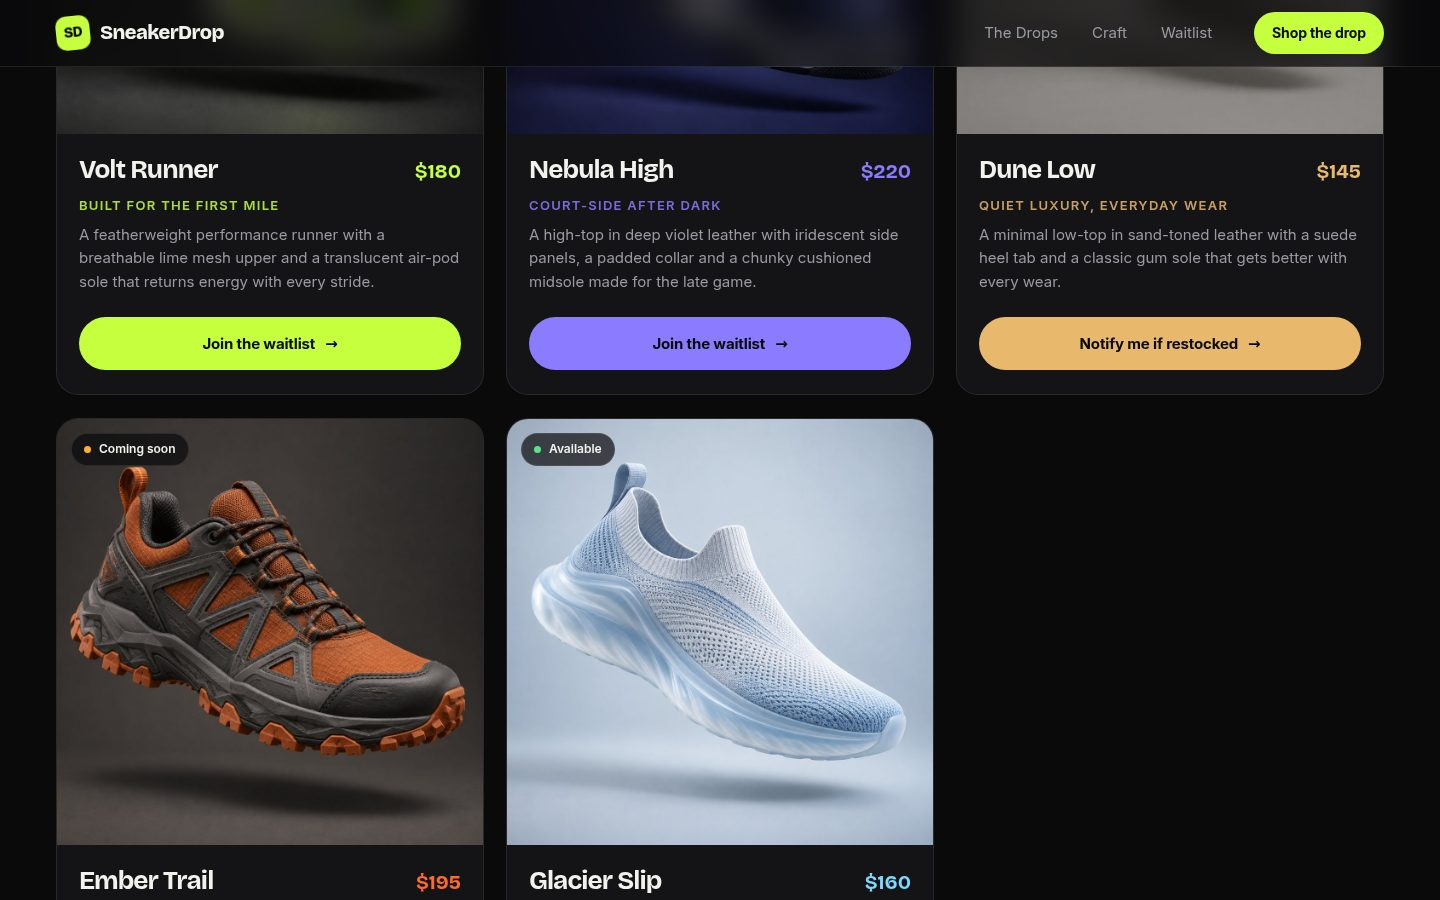
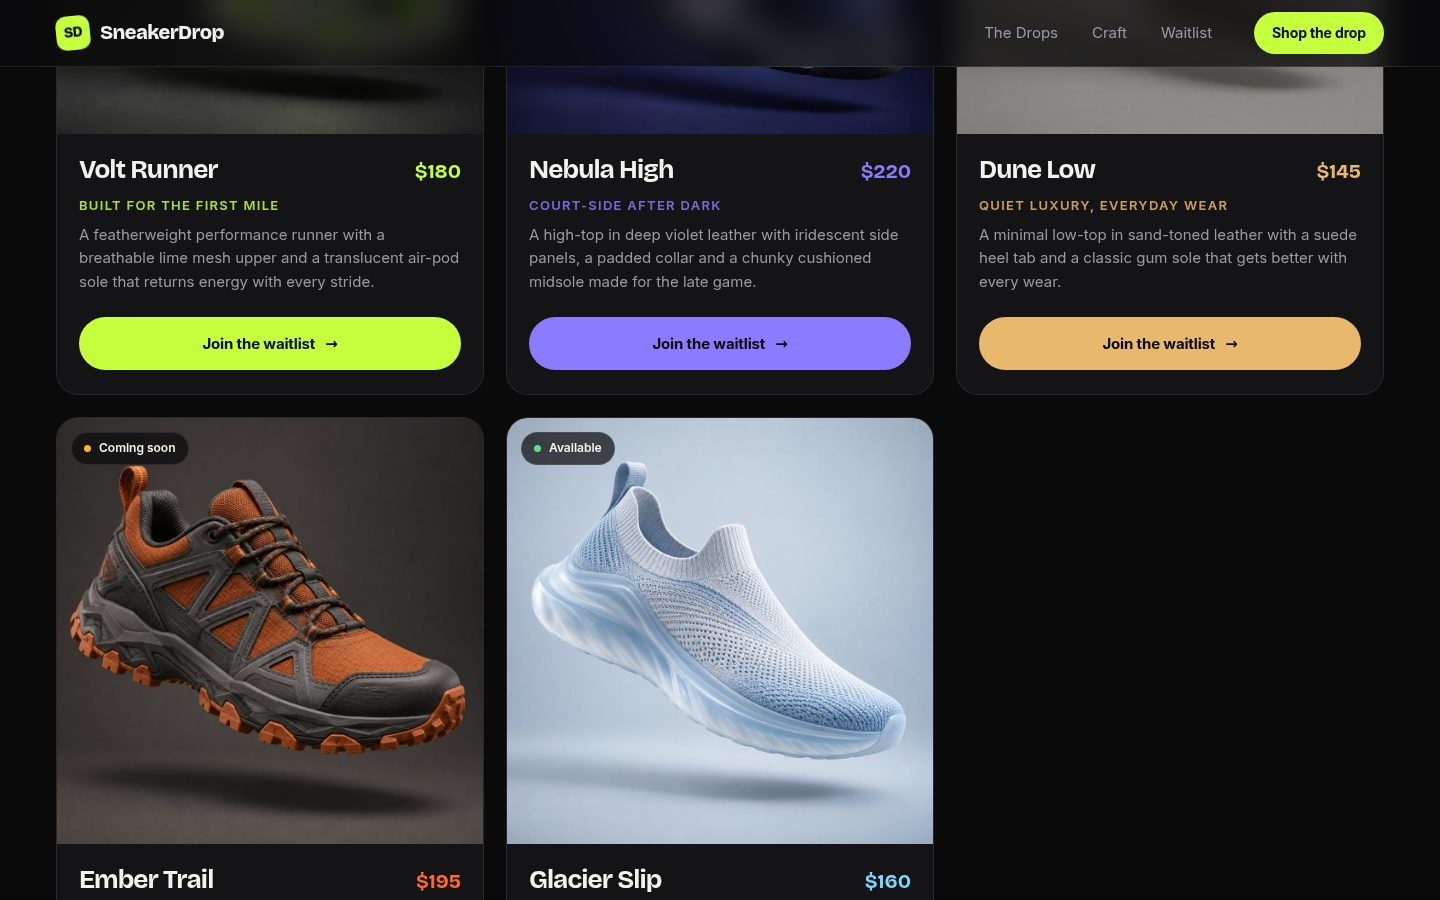
Fix mobile overflow, make waitlist copy accurate, add security tests and secret scan

diff --git a/app/globals.css b/app/globals.css
@@ -12,8 +12,8 @@
   --ease: cubic-bezier(0.2, 0.8, 0.2, 1);
 }
 * { box-sizing: border-box; margin: 0; padding: 0; }
-html { scroll-behavior: smooth; scroll-padding-top: 80px; }
-body { background: var(--bg); color: var(--text); font-family: var(--font-b); line-height: 1.55; -webkit-font-smoothing: antialiased; overflow-x: hidden; }
+html { scroll-behavior: smooth; scroll-padding-top: 80px; overflow-x: clip; }
+body { background: var(--bg); color: var(--text); font-family: var(--font-b); line-height: 1.55; -webkit-font-smoothing: antialiased; overflow-x: clip; }
 img { max-width: 100%; display: block; }
 a { color: inherit; text-decoration: none; }
 button, input, select, textarea { font: inherit; color: inherit; }
@@ -48,7 +48,7 @@ button, input, select, textarea { font: inherit; color: inherit; }
 .burger.open span:first-child { top: 21px; transform: rotate(45deg); } .burger.open span:last-child { top: 21px; transform: rotate(-45deg); }
 
 /* ---------- hero ---------- */
-.hero { position: relative; min-height: 100svh; display: grid; grid-template-columns: 1.05fr 1fr; align-items: center; gap: 24px; padding: 130px clamp(20px, 5vw, 56px) 90px; max-width: 1440px; margin: 0 auto; }
+.hero { overflow-x: clip; position: relative; min-height: 100svh; display: grid; grid-template-columns: 1.05fr 1fr; align-items: center; gap: 24px; padding: 130px clamp(20px, 5vw, 56px) 90px; max-width: 1440px; margin: 0 auto; }
 .hero::before { content: ''; position: absolute; inset: -20% -10% auto auto; width: 70vw; height: 70vw; max-width: 900px; max-height: 900px; background: radial-gradient(circle, color-mix(in srgb, var(--accent) 22%, transparent), transparent 62%); filter: blur(30px); pointer-events: none; z-index: -1; animation: drift 12s ease-in-out infinite alternate; }
 @keyframes drift { to { transform: translate(-40px, 30px) scale(1.06); } }
 .eyebrow { display: inline-flex; align-items: center; gap: 10px; font-size: 13px; font-weight: 600; text-transform: uppercase; letter-spacing: .14em; color: var(--muted); }

diff --git a/app/page.js b/app/page.js
@@ -47,7 +47,7 @@ export default async function Home() {
             {[
               ['01', 'Limited by design', 'Each model is produced once, in a small batch. When it is gone, it is gone.'],
               ['02', 'Comfort engineered', 'Responsive cushioning, breathable uppers and soles tuned for how you actually move.'],
-              ['03', 'List-first access', 'People on the waitlist hear about a release before it goes public.'],
+              ['03', 'Per-pair waitlists', 'Every pair has its own waitlist, so demand for each release is easy to see.'],
             ].map(([n, t, d], i) => (
               <Reveal key={n} delay={i * 110} className="craft-card">
                 <span className="num">{n}</span>
@@ -61,8 +61,8 @@ export default async function Home() {
         <section id="waitlist" className="section cta">
           <Reveal className="cta-card">
             <p className="eyebrow"><i /> The waitlist</p>
-            <h2>Never miss a drop.</h2>
-            <p className="lead">Pick any pair above and join its waitlist with your email. One signup per pair, no spam.</p>
+            <h2>Get on the list.</h2>
+            <p className="lead">Pick any pair above and join its waitlist with your email. One signup per email per pair.</p>
             <a href="#drops" className="btn">Choose your pair</a>
           </Reveal>
         </section>

diff --git a/app/components/Hero.js b/app/components/Hero.js
@@ -28,7 +28,7 @@ export default function Hero({ image, name, price, accent }) {
           <span className="line"><span className="outline" style={{ '--d': '300ms' }}>Drop it.</span></span>
         </h1>
         <p className="hero-sub hero-in" style={{ '--d': '460ms' }}>
-          Small-batch sneakers, released in limited runs. Pick your pair, join the waitlist and be first through the door.
+          Small-batch sneakers, released in limited runs. Pick your pair and join its waitlist with your email.
         </p>
         <div className="hero-actions hero-in" style={{ '--d': '560ms' }}>
           <a href="#drops" className="btn">Explore the drops</a>
@@ -36,8 +36,8 @@ export default function Hero({ image, name, price, accent }) {
         </div>
         <dl className="hero-stats hero-in" style={{ '--d': '680ms' }}>
           <div><dt>05</dt><dd>pairs this drop</dd></div>
-          <div><dt>48h</dt><dd>early access for the list</dd></div>
-          <div><dt>1x</dt><dd>run, never restocked</dd></div>
+          <div><dt>0</dt><dd>restocks, ever</dd></div>
+          <div><dt>1x</dt><dd>small-batch run</dd></div>
         </dl>
       </div>
       <div className="hero-stage-wrap hero-in" style={{ '--d': '300ms' }}>

diff --git a/app/components/WaitlistModal.js b/app/components/WaitlistModal.js
@@ -66,14 +66,14 @@ export default function WaitlistModal({ product, onClose }) {
           <div className="modal-done">
             <svg viewBox="0 0 52 52" className="tick" aria-hidden="true"><circle cx="26" cy="26" r="24" /><path d="M14 27l8 8 16-17" /></svg>
             <h3 id="wl-title">{msg}</h3>
-            <p>We will email you when it is your turn. No spam, just the drop.</p>
+            <p>Your email is saved for this pair. One signup per email per pair.</p>
             <button className="btn" onClick={onClose}>Back to the drops</button>
           </div>
         ) : (
           <form onSubmit={submit} noValidate>
             <p className="eyebrow"><i /> Waitlist</p>
             <h3 id="wl-title">{product.name}</h3>
-            <p className="modal-sub">Leave your email and you will hear first when this pair opens up.</p>
+            <p className="modal-sub">Leave your email to join the waitlist for this pair.</p>
             <label htmlFor="wl-email">Email address</label>
             <input
               id="wl-email"

diff --git a/app/components/Catalogue.js b/app/components/Catalogue.js
@@ -27,7 +27,7 @@ function Card({ p, onJoin, index }) {
     const el = ref.current;
     ['--rx', '--ry'].forEach((k) => el.style.removeProperty(k));
   }
-  const cta = p.status === 'available' ? 'Join the waitlist' : p.status === 'coming_soon' ? 'Get notified' : 'Notify me if restocked';
+  const cta = 'Join the waitlist';
   return (
     <Reveal delay={(index % 3) * 90}>
       <article className={`card status-${p.status}`} ref={ref} onMouseMove={move} onMouseLeave={leave} style={{ '--accent': p.accent }}>

diff --git a/app/components/Marquee.js b/app/components/Marquee.js
@@ -1,5 +1,5 @@
 export default function Marquee() {
-  const words = ['Limited runs', 'Waitlist first', 'No restocks', 'Small batch', 'Built to move', 'Drop 04'];
+  const words = ['Limited runs', 'Waitlists open', 'No restocks', 'Small batch', 'Built to move', 'Drop 04'];
   const row = [...words, ...words];
   return (
     <div className="marquee" aria-hidden="true">

diff --git a/README.md b/README.md
@@ -11,7 +11,7 @@ A premium sneaker showcase for a fictional brand. Visitors browse a live catalog
 
 | Home (desktop) | Home (mobile) |
 | --- | --- |
-| ![Home desktop](docs/screenshots/home-desktop.jpg) | ![Home mobile](docs/screenshots/home-mobile.jpg) |
+| ![Home desktop](docs/screenshots/home-desktop.jpg) | ![Home mobile](docs/screenshots/home-mobile.jpg) ![Mobile menu](docs/screenshots/mobile-menu.jpg) |
 
 | Catalogue | Catalogue (mobile) |
 | --- | --- |
@@ -90,12 +90,33 @@ Sign in at `/admin` with the email and password you chose.
 
 ### Tests
 
-`scripts/e2e.mjs` is an end-to-end API check that runs against a live instance and cleans up after itself. It covers anonymous access being rejected, login, product create/edit/availability/delete, public reflection of every change, email validation, duplicate prevention and the admin waitlist.
+All checks run against a live instance and clean up after themselves.
 
 ```bash
 npm run build && npm start &
-BASE=http://localhost:3000 ADMIN_EMAIL=you@example.com ADMIN_PASSWORD='your-password' node scripts/e2e.mjs
+export BASE=http://localhost:3000 ADMIN_EMAIL=you@example.com ADMIN_PASSWORD='your-password'
+npm run test:e2e        # functional: login, product CRUD, availability, public reflection, waitlist rules
+npm run test:security   # authorization, forged sessions, CSRF/origin, SQL injection, XSS, data exposure, headers
+THROTTLE=1 npm run test:security   # also checks login throttling (locks your IP out for 15 minutes, run last)
+npm run scan:secrets    # scans the working tree and full git history for credentials
 ```
+
+## Security
+
+| Area | What the app does | How it is checked |
+| --- | --- | --- |
+| Authorization | Middleware plus a per-route `requireAdmin` check on every admin read and write | Anonymous GET/POST/PUT/DELETE on all admin routes return 401 |
+| Sessions | Signed JWT (HS256) in an `HttpOnly`, `SameSite=Strict`, `Secure` (in production) cookie that expires after 8 hours | Wrong-secret, `alg=none` and garbage tokens are rejected |
+| CSRF | `SameSite=Strict` cookie plus an `Origin` check on every non-GET admin request | A cross-origin POST with a valid session returns 403 and creates nothing |
+| SQL injection | Parameterised queries only (`mysql2` placeholders), plus server-side validation of every field | Injection strings in login, product fields, email and `productId` are stored as data or rejected, tables stay intact |
+| XSS | React escapes output; image URLs must be `https://` or a local path; accent must be a hex colour | A stored `<img onerror>` name is not rendered as HTML |
+| Passwords | bcrypt, cost 12. Only the hash is stored (in an environment variable), never the password | `npm run hash` is the only way a password is turned into config |
+| Login throttling | 8 failed logins per IP per 15 minutes, then 429, even for the right password. Waitlist posts are limited to 10 per minute per IP | `THROTTLE=1 npm run test:security` |
+| Data exposure | Public API returns products only. Waitlist emails are only readable through the admin API | Emails and secrets never appear in public responses or HTML |
+| Secrets | `.env*` files are git-ignored, only `.env.example` is committed, the database is reachable only from server code | `npm run scan:secrets` finds nothing in the tree or history |
+| Headers | `X-Frame-Options: DENY`, `X-Content-Type-Options: nosniff`, no `X-Powered-By` | Checked in the security test |
+
+The throttles are per server instance and kept in memory. They slow down abuse but are not a replacement for a shared rate limiter.
 
 ## Database schema
 
@@ -154,7 +175,7 @@ scripts/                   setup + seed, password hash helper, e2e test
 
 - A single admin account configured through environment variables; no password reset or multi-user roles.
 - Rate limiting is per server instance and in memory. Behind many instances, use a shared store.
-- The waitlist stores emails but does not send any email (no confirmation or launch notification).
+- The waitlist only records emails for the admin to read. It does not send any email (no confirmation or launch notification) and has no access scheduling.
 - Product images are chosen by URL or path; there is no upload or image optimisation pipeline in the admin.
 - Prices are shown in USD only. There is no cart or checkout, by design.
 - On a free managed MySQL plan the database can pause after a period of inactivity, so the first request after a long idle period may be slow or fail until it wakes.
